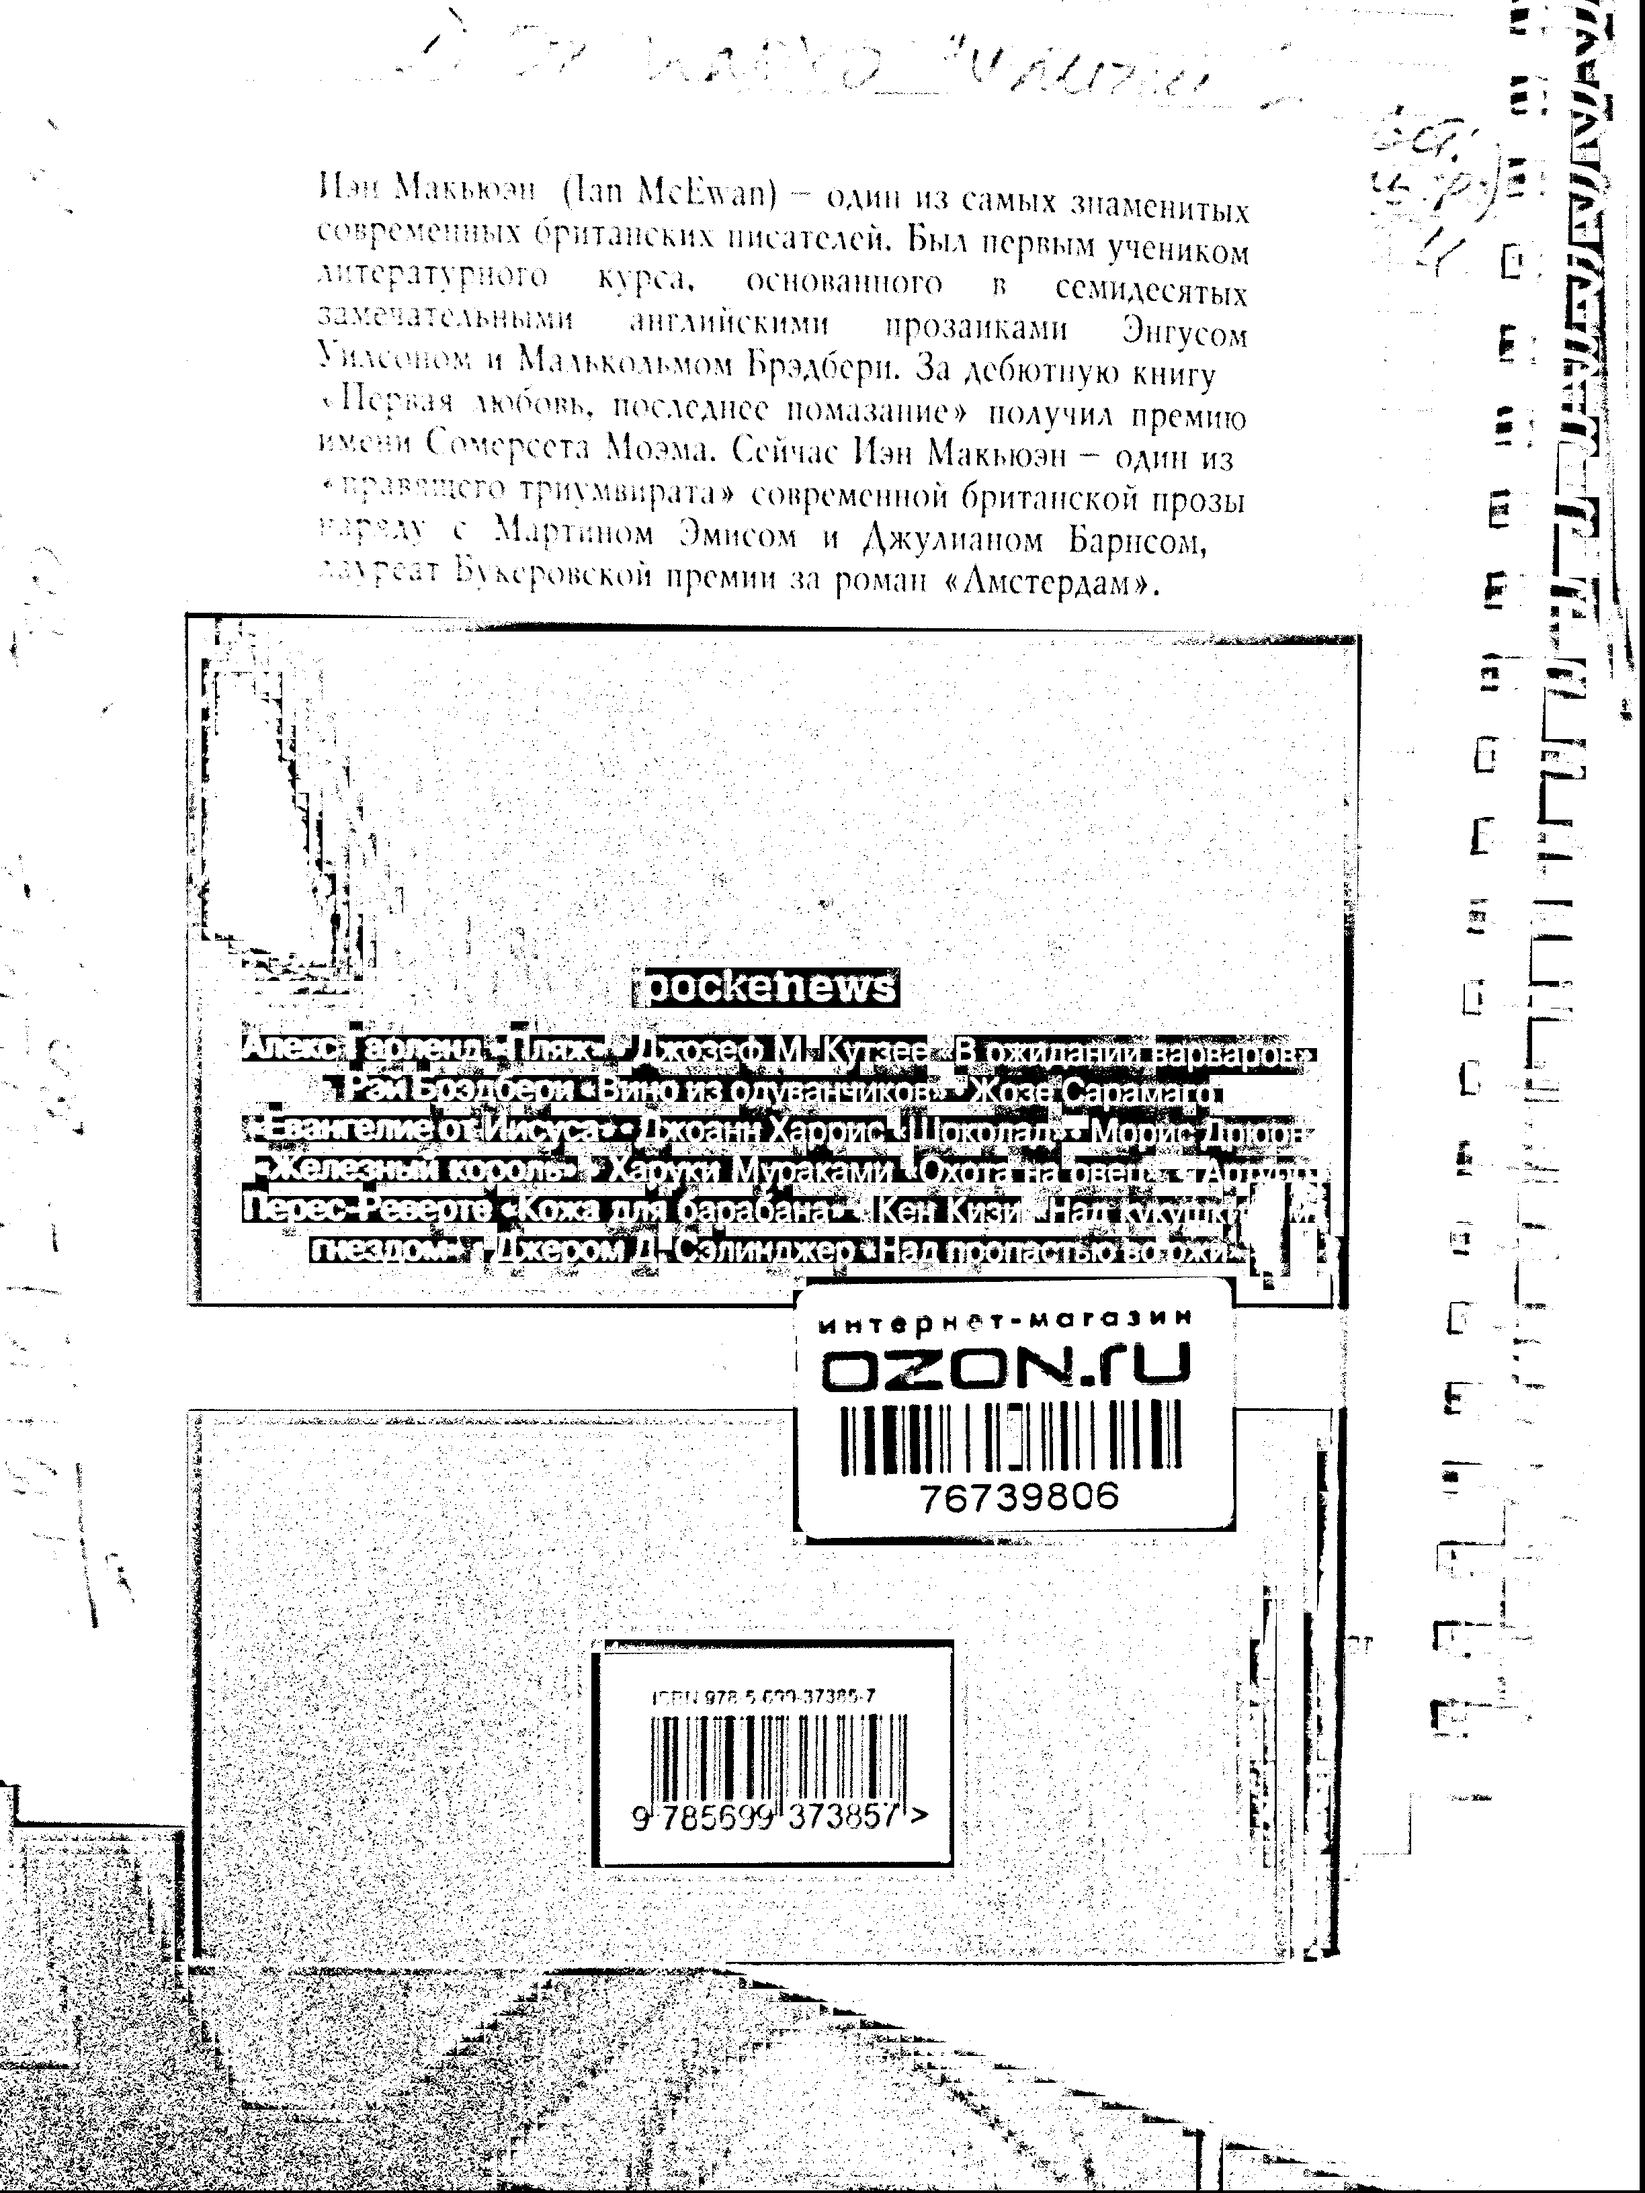
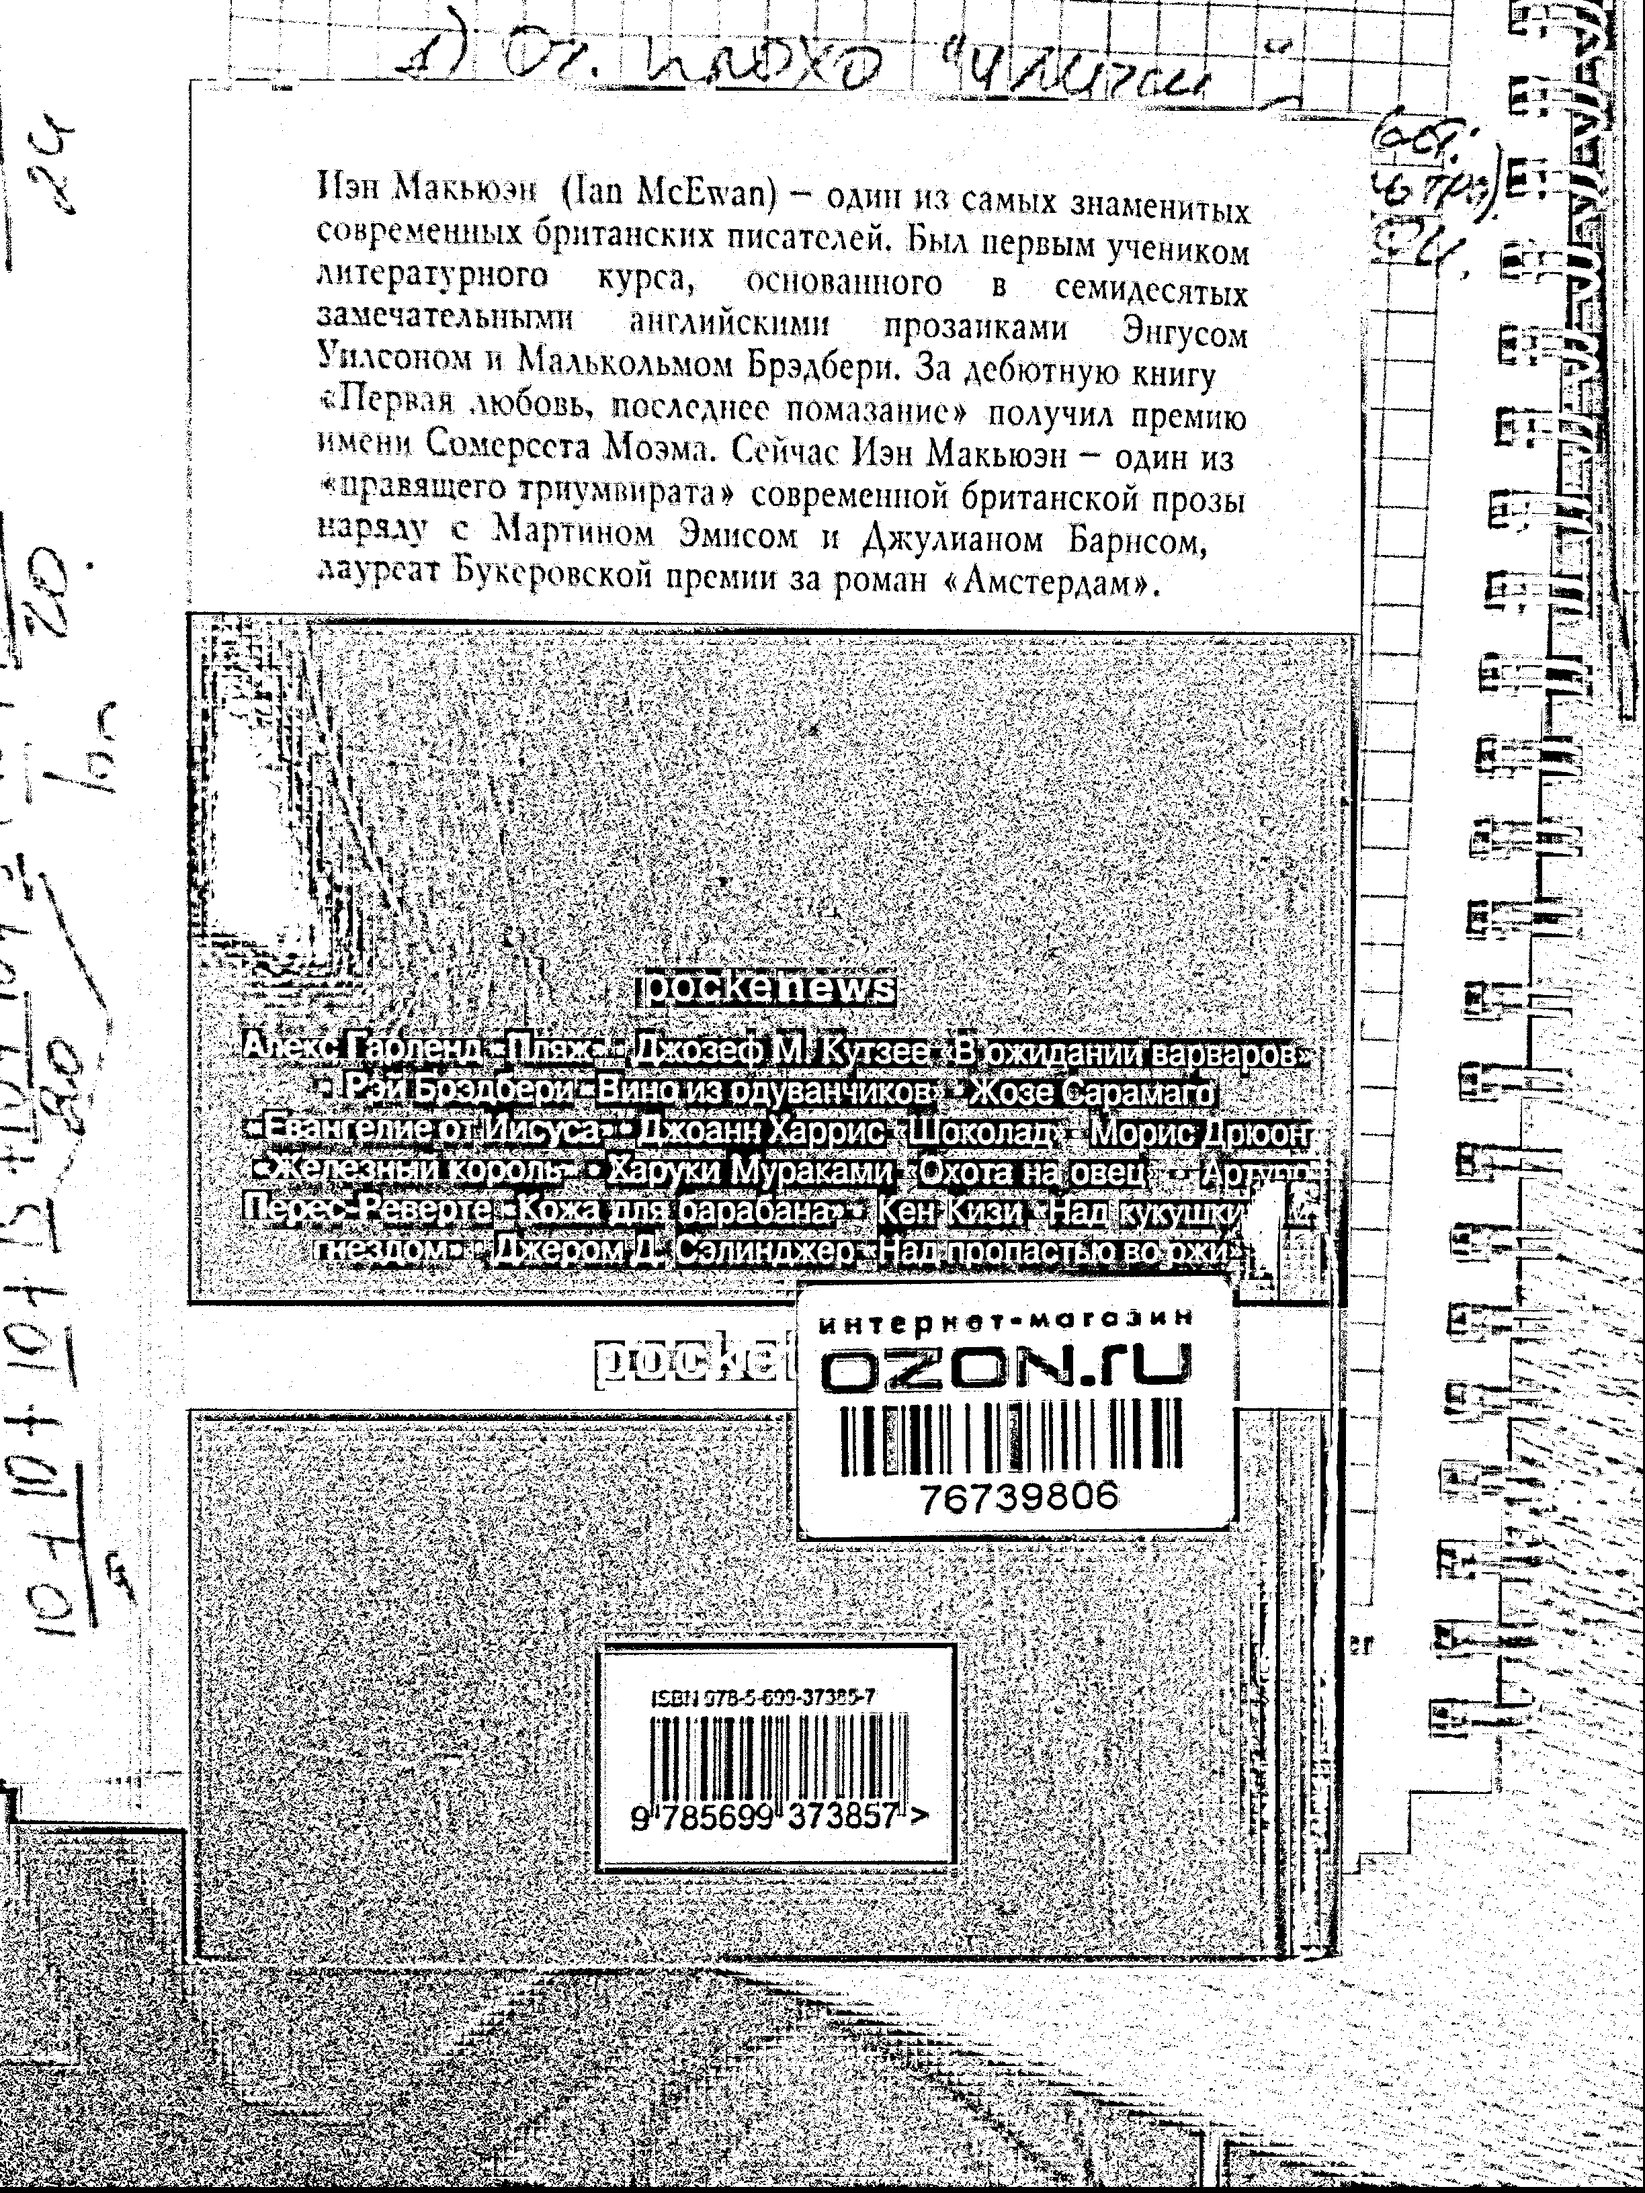
better results (4,6,8,9,14)

diff --git a/task1_binarization/readme.md b/task1_binarization/readme.md
@@ -14,4 +14,4 @@
 
 Средняя скорость работы алгоритма 0.5-0.6 сек/мегапиксель
 
-Алгоритм довольно успешно работает на большинстве изображений, небольшие проблемы возникают при бинаризации слабо контрастных изображений, однако, можно немного подкрутить параметры для улучшения результата, и на изображениях со светлым текстом поверх темного фона.
+Алгоритм довольно успешно работает на большинстве изображений, небольшие проблемы возникают при бинаризации  изображений со светлым текстом поверх темного фона (4, 6, 8, 9, 14), однако удается значительно улучшить результаты на них, уменьшая параметр k (до 0.05), и одновременно с этим увеличивая R (до 200).
